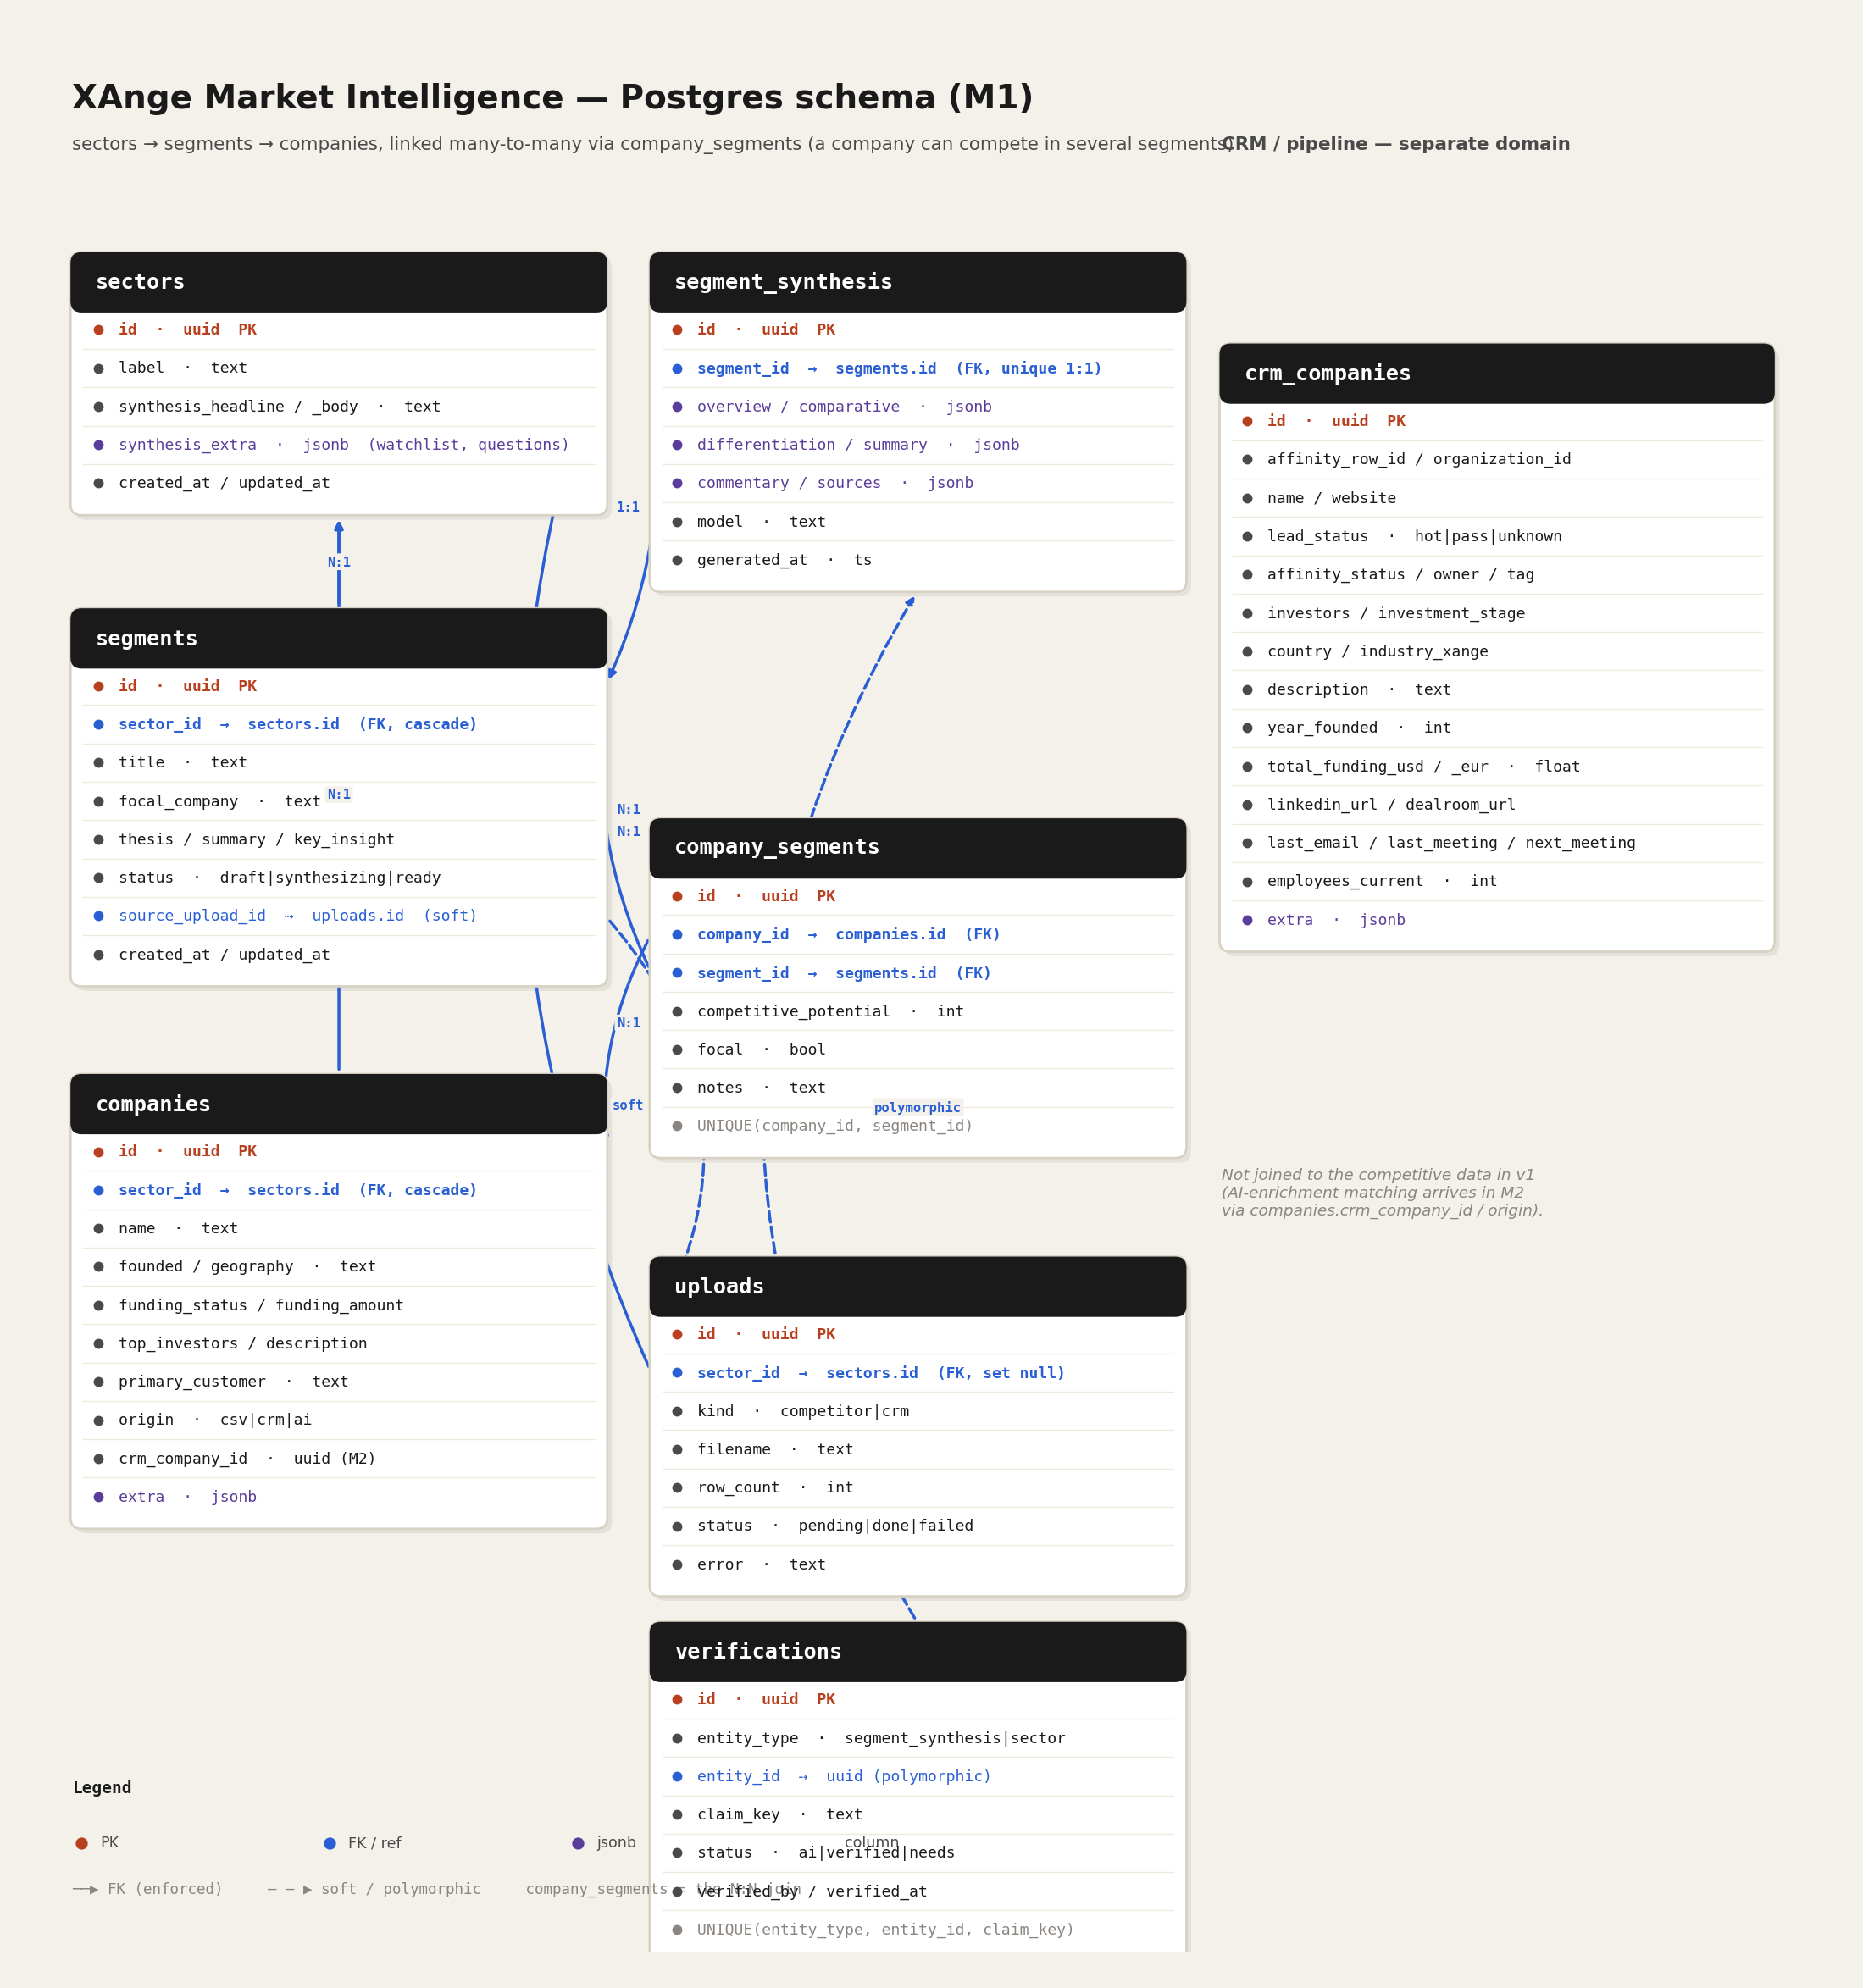
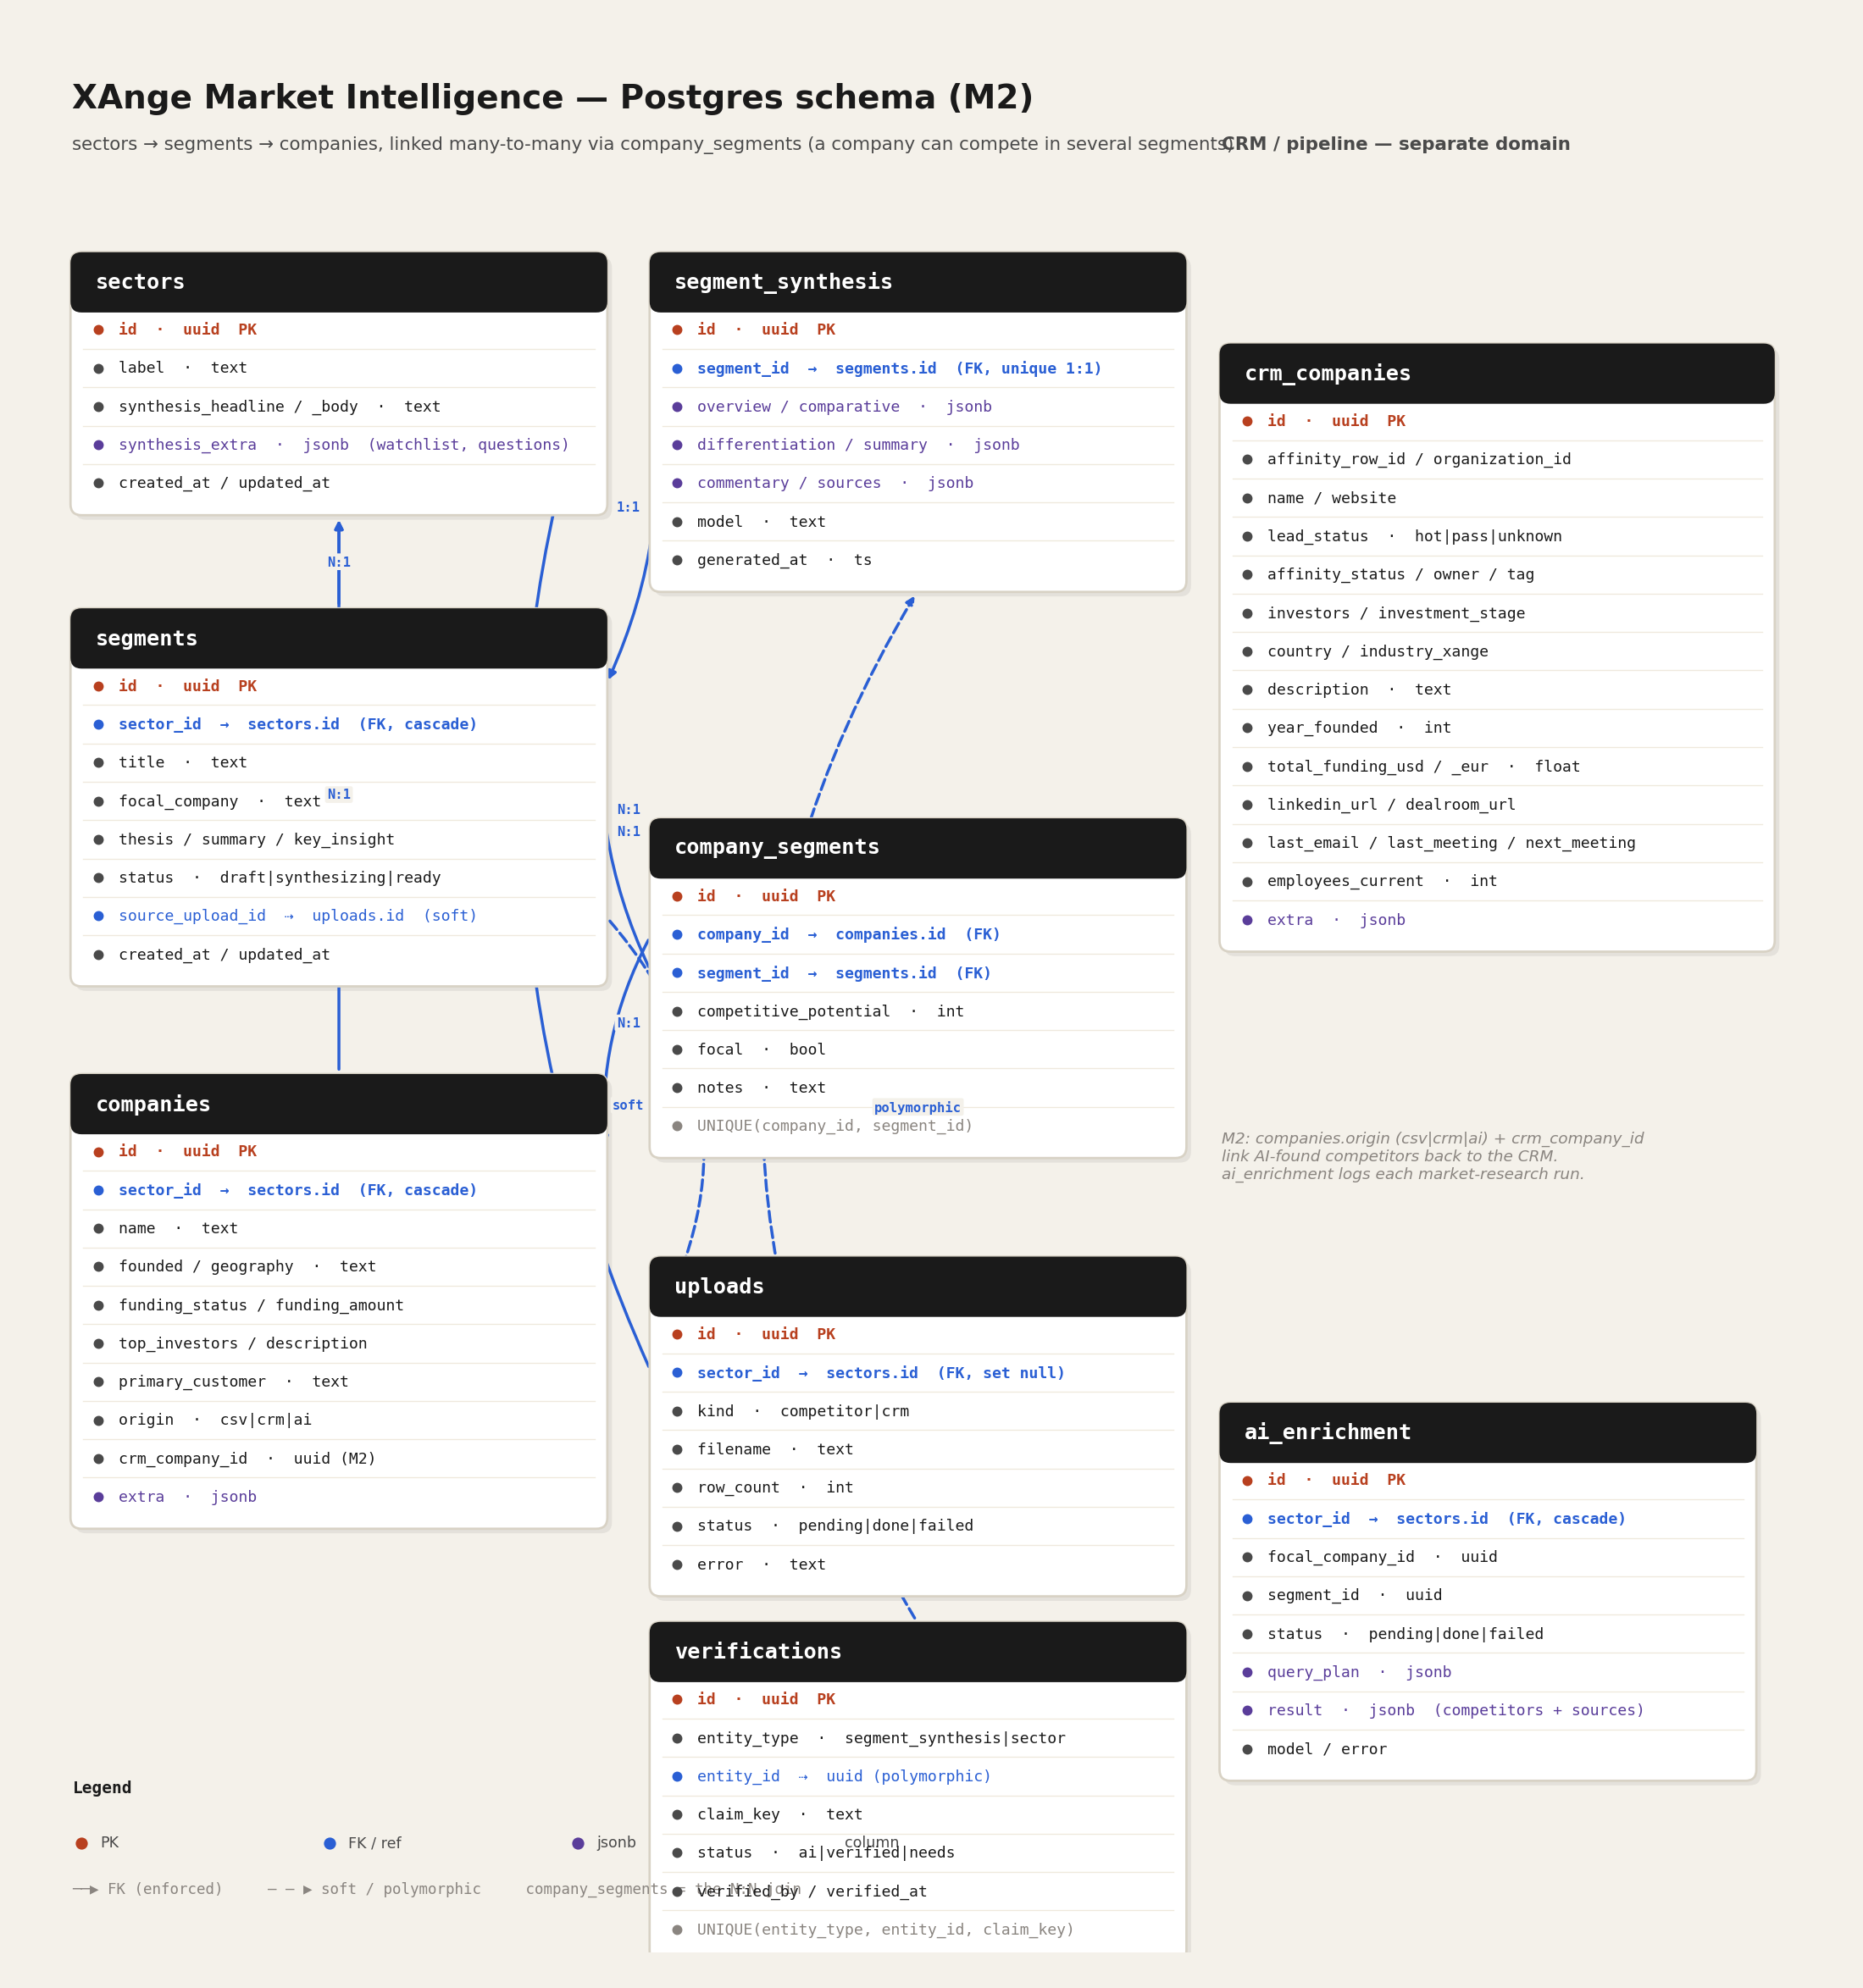
M2 docs: CLAUDE.md + feedback.md status, regenerated schema PNG

diff --git a/CLAUDE.md b/CLAUDE.md
@@ -212,8 +212,24 @@ alongside the existing root `src/` — but the monorepo layout above is preferre
 
 ## 9. Current status
 
-Weeks 1–4 of `BUILD_PLAN.md` are **built and verified end-to-end** against the
-real CSVs + a live LLM (OpenAI, provider-agnostic via LangChain).
+**Re-architecture M1 + M2 are built and verified live** (on top of the Weeks 1–4 base).
+
+- **M1:** Workspace→Segment rename; Company↔Segment **many-to-many** (`company_segments`,
+  per-segment tier/focal/notes); CSV import builds a **Sector** (segments derived from the
+  list-valued Segment column); Company × Segment matrix in the Sector UI.
+- **M2 — AI enrichment + web research:** a market-research pipeline finds competitors
+  **not in the CRM**. Stack = LangChain agent (OpenAI) → **Tavily** search →
+  **trafilatura → Playwright** page fetch → structured `Competitor` list with source
+  provenance + confidence. Endpoints: `POST /sectors/{id}/enrich` (sector enrichment) and
+  `POST /crm/companies/{id}/analyse` (**company-first**: AI suggests sector+segment, creates
+  them with the CRM company as focal, then researches competitors). Discovered competitors
+  are stored as `companies` with `origin='ai'`, name/domain-matched to the CRM
+  (`crm_company_id`). New `ai_enrichment` table logs each run. Sector UI: "Find competitors"
+  action, AI-discovered-competitors panel (sources + VerifyDot + in-CRM/net-new), and
+  AI-found / in-CRM stats. CRM pipeline: per-row "Analyse" action. Keys: `TAVILY_API_KEY`
+  in `backend/.env` (plus the LLM key); Playwright needs `playwright install chromium` once.
+
+Weeks 1–4 base (still true):
 
 - **Backend:** FastAPI + Postgres (Docker, port 5544), SQLAlchemy + Alembic.
   Ingestion (CRM + competitor, core+extras). Endpoints: sectors tree + detail +

diff --git a/feedback.md b/feedback.md
@@ -1,8 +1,10 @@
 # Feedback → Required Changes (from handwritten notes)
 
-> Status: **Milestone 1 IMPLEMENTED ✅** (rename Workspace→Segment, Company↔Segment
-> N:N, sector-level CSV import, richer Sector UI with the Company×Segment matrix).
-> **Milestone 2 (AI enrichment + company-first flow) is NEXT, not yet built.**
+> Status: **Milestones 1 & 2 IMPLEMENTED ✅.**
+> M1 = rename Workspace→Segment, Company↔Segment N:N, sector-level CSV import, Company×Segment matrix.
+> M2 = AI enrichment (Tavily search + trafilatura→Playwright scraping + LLM) finding
+> competitors not in the CRM, sector "Find competitors" + company-first "Analyse from CRM"
+> flows, origin/crm_company_id CRM-matching, ai_enrichment table.
 > Original proposal + decisions retained below for reference.
 
 ---